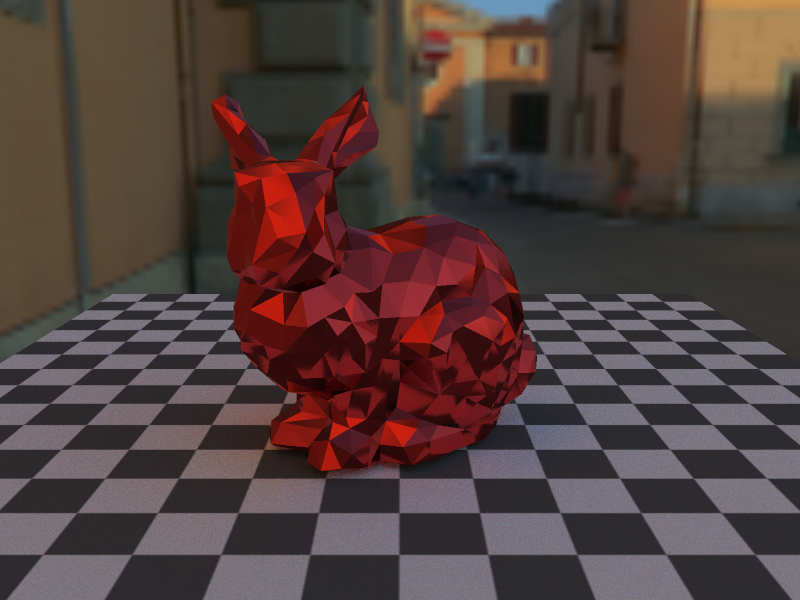
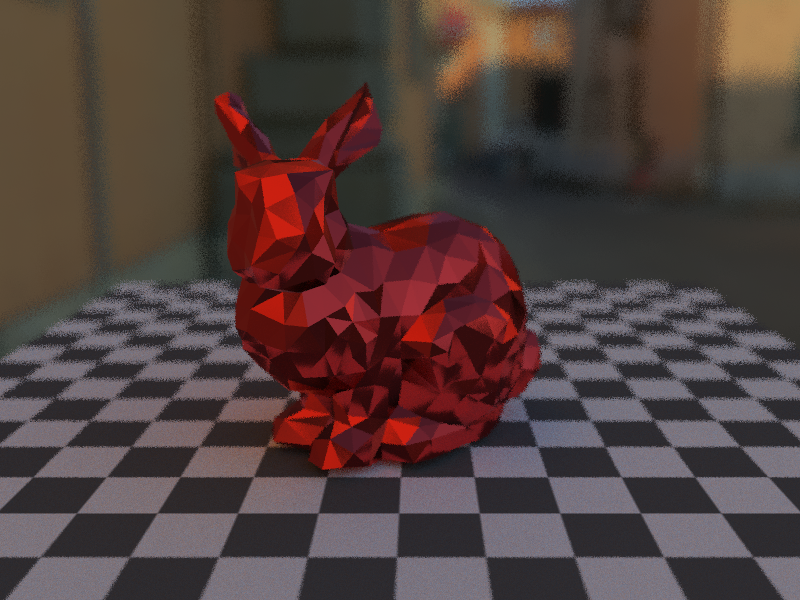
Worked Dof square lens (total 26.549 sec.)

diff --git a/src/camera.rs b/src/camera.rs
@@ -1,4 +1,10 @@
+extern crate rand;
+
+use self::rand::thread_rng;
+use self::rand::{Rng, ThreadRng};
+
 use vector::{Vector3, Vector2};
+use random;
 
 #[derive(Debug)]
 pub struct Camera {
@@ -46,13 +52,23 @@ impl Camera {
         }
     }
 
+    fn sample_square(mut rng: &mut ThreadRng) -> Vector2 {
+        let random = random::get_random(&mut rng);
+        Vector2::new(random.0 + 0.5, random.1 + 0.5)
+    }
+
     pub fn ray(&self, normalized_coord: &Vector2) -> Ray {
+        let mut rng = thread_rng();
+        let lens_uv = Camera::sample_square(&mut rng) * self.lens_radius;
+        let lens_pos = self.right * lens_uv.x + self.up * lens_uv.y;
+
         Ray {
-            origin: self.eye,
+            origin: self.eye + lens_pos,
             direction: (
                 normalized_coord.x * self.plane_half_right
                     + normalized_coord.y * self.plane_half_up
                     + self.focus_distance * self.forward
+                    - lens_pos
             ).normalize(),
         }
     }

diff --git a/src/main.rs b/src/main.rs
@@ -47,8 +47,8 @@ fn render() {
         Vector3::new(0.0, 1.0, 0.0),// target
         Vector3::new(0.0, 1.0, 0.0),// y_up
         20.0,// fov
-        1.0,// aperture
-        3.0// focus_distance
+        0.3,// aperture
+        6.5// focus_distance
     );
 
     let scene = Scene {
